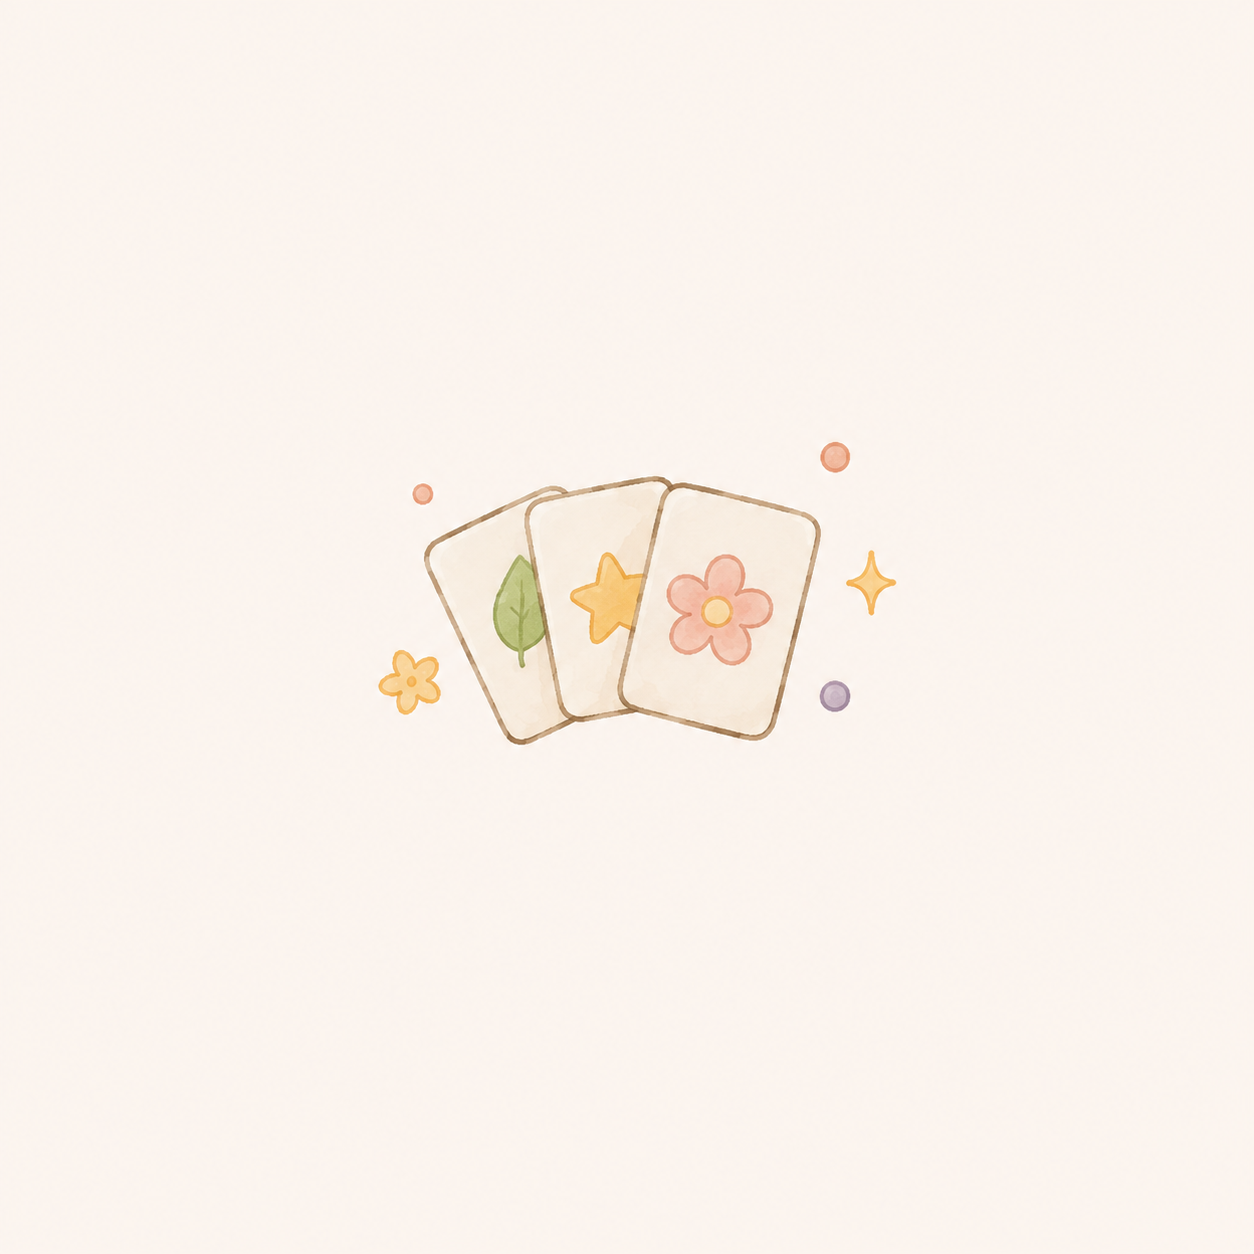
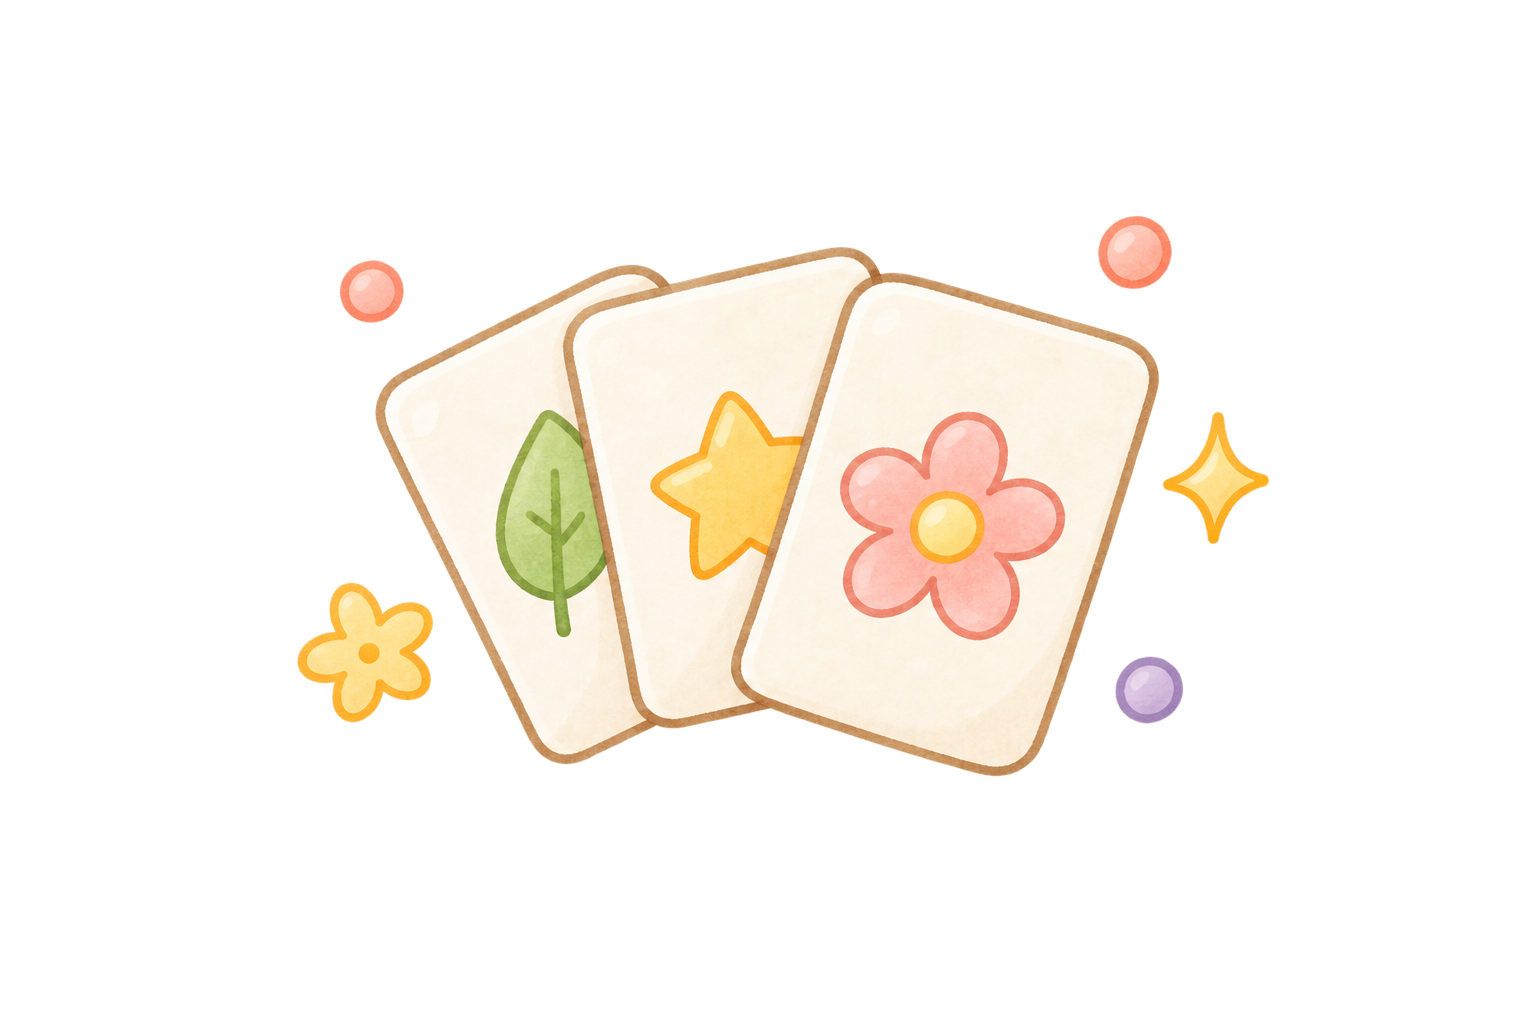
oyako: 背景なしアイコンに差し替え、円形コンテナを削除

diff --git a/oyako/index.html b/oyako/index.html
@@ -1489,11 +1489,8 @@ function NavBar({ tab, onTab }) {
     <div className="nav-bar">
       {items.map(it => (
         <div key={it.id} className={`nav-item ${tab === it.id ? 'active' : ''}`} onClick={() => onTab(it.id)}>
-          <div style={{ width: 46, height: 46, borderRadius: '50%', background: '#fff',
-                        display: 'flex', alignItems: 'center', justifyContent: 'center', overflow: 'hidden' }}>
-            <img src={it.icon} alt={it.label} style={{ width: 38, height: 38, objectFit: 'contain',
-              opacity: tab === it.id ? 1 : 0.55 }} />
-          </div>
+          <img src={it.icon} alt={it.label} className="nav-icon-img"
+            style={{ opacity: tab === it.id ? 1 : 0.45 }} />
           <span className="nav-label" style={tab === it.id ? { color: 'var(--primary)' } : {}}>{it.label}</span>
         </div>
       ))}
@@ -1524,11 +1521,7 @@ function HomeScreen({ onTab }) {
             style={{ background: '#fff', borderRadius: 16, padding: '16px 18px', marginBottom: 10,
                      width: '100%', display: 'flex', alignItems: 'center', gap: 14,
                      boxShadow: '0 2px 14px rgba(0,0,0,0.07)', cursor: 'pointer', border: 'none', textAlign: 'left' }}>
-            <div style={{ width: 64, height: 64, borderRadius: '50%', background: '#fff',
-                          display: 'flex', alignItems: 'center', justifyContent: 'center', flexShrink: 0, overflow: 'hidden',
-                          boxShadow: '0 1px 6px rgba(0,0,0,0.08)' }}>
-              <img src={item.icon} alt="" style={{ width: 56, height: 56, objectFit: 'contain' }} />
-            </div>
+            <img src={item.icon} alt="" style={{ width: 64, height: 64, objectFit: 'contain', flexShrink: 0 }} />
             <div style={{ flex: 1 }}>
               <div style={{ fontSize: 17, fontWeight: 700, color: '#2C2C2C', marginBottom: 3 }}>{item.title}</div>
               <div style={{ fontSize: 13, color: '#888' }}>{item.sub}</div>
